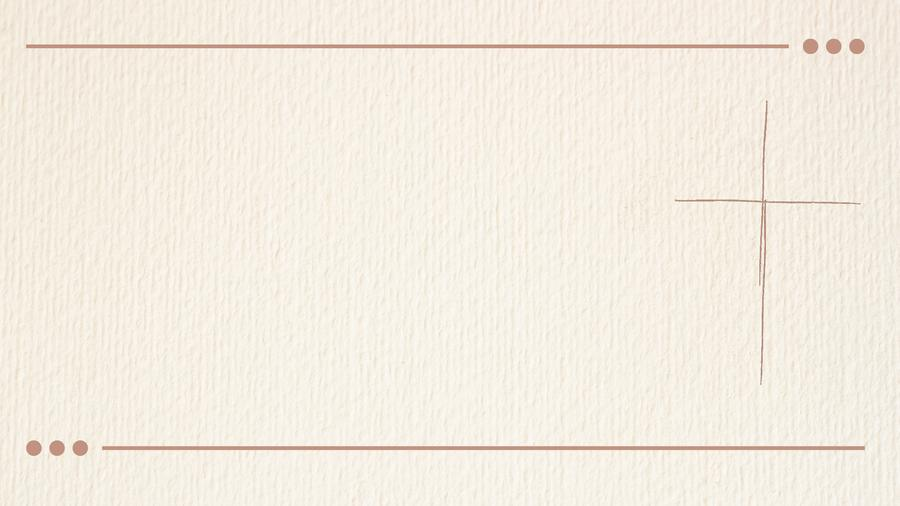
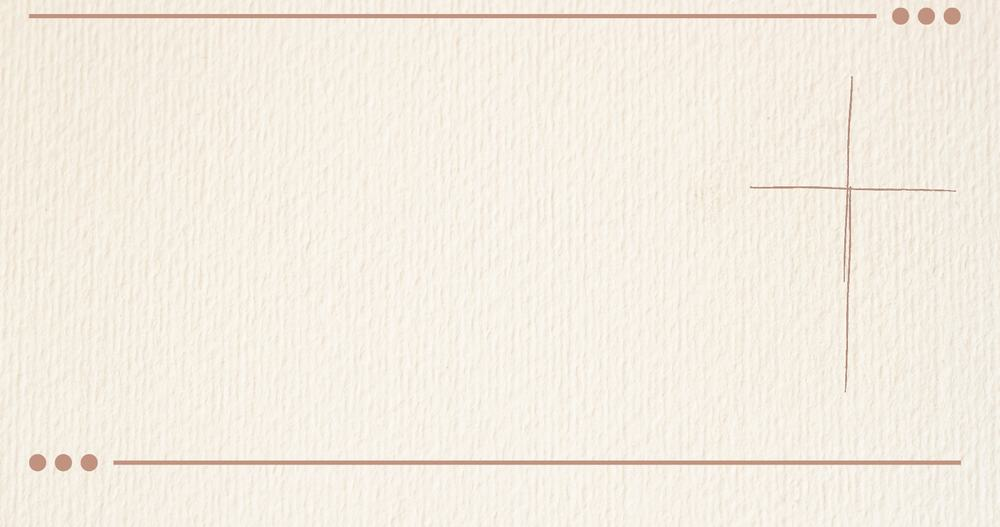
fix(bulletin): raise bottom line, enlarge 성경말씀보기 button
- Recropped the hero background to trim excess top margin, which pulls
  the bottom decorative line higher and roughly doubles the clearance
  below it (23px -> ~32px at typical widths)
- Card aspect ratio adjusted (1.4) to fit the recropped art without
  cropping the lines out — still scales cleanly across phone widths
- Button padding/font bumped up now that there's room, no longer
  cramped against the image edge

Claude-Session: https://claude.ai/code/session_01VDsoJVjkmq7yGfS2oWFvuq

diff --git a/app/bulletin.tsx b/app/bulletin.tsx
@@ -238,7 +238,7 @@ function BulletinCards({ bulletin }: { bulletin: Bulletin }) {
           </View>
           <Pressable style={styles.heroBtn} onPress={() => router.push('/word')}>
             <Text style={styles.heroBtnText}>성경말씀보기</Text>
-            <ChevronRight size={9} color="#FFF6ED" strokeWidth={2.6} />
+            <ChevronRight size={11} color="#FFF6ED" strokeWidth={2.6} />
           </Pressable>
         </View>
       ) : null}
@@ -803,15 +803,16 @@ const styles = StyleSheet.create({
     backgroundColor: '#F3E9DC',
     borderRadius: 16,
     width: '100%',
-    aspectRatio: 900 / 506,
+    aspectRatio: 1.4,
     overflow: 'hidden',
     position: 'relative',
   },
-  // 배경 그림(hero-sunday-bg.jpg)의 실제 장식선 위치를 픽셀 분석해서 맞춘 좌표:
-  // 위쪽 선 9.44%, 아래쪽 선 88.89% (그림 자체 비율 그대로라 잘리지 않는다)
+  // 배경 그림(hero-sunday-bg.jpg)은 위쪽 여백을 잘라내 아래쪽 선을 위로 올린 버전.
+  // 카드 비율(1.4)이 그림 원본 비율(1.9)보다 좁아서, 세로는 잘리지 않고 양옆만
+  // 살짝 잘린다 — 실제 선 위치를 픽셀 분석해 맞춘 좌표: 위쪽 선 2.67%, 아래쪽 선 87.75%
   heroBadge: {
     position: 'absolute',
-    top: '9.44%',
+    top: '2.67%',
     left: '6.5%',
     transform: [{ translateY: 6 }, { translateX: -8 }],
     backgroundColor: 'rgba(255,255,255,0.4)',
@@ -822,10 +823,10 @@ const styles = StyleSheet.create({
   heroBadgeText: { fontFamily: font.bold, fontSize: 10.5, color: '#5A3D2B' },
   heroMid: {
     position: 'absolute',
-    top: '9.44%',
+    top: '46%',
     left: '6.5%',
     right: '34%',
-    transform: [{ translateY: 56 }],
+    transform: [{ translateY: -30 }],
   },
   heroDate: {
     fontFamily: font.bold,
@@ -842,18 +843,18 @@ const styles = StyleSheet.create({
   heroMeta: { fontFamily: font.medium, fontSize: 11, color: '#6B4A35', marginTop: 6 },
   heroBtn: {
     position: 'absolute',
-    top: '88.89%',
+    top: '87.75%',
     right: '3.96%',
-    transform: [{ translateY: 3 }],
+    transform: [{ translateY: 4 }],
     flexDirection: 'row',
     alignItems: 'center',
-    gap: 3,
+    gap: 4,
     backgroundColor: '#6B4A35',
-    borderRadius: 7,
-    paddingVertical: 3,
-    paddingHorizontal: 8,
+    borderRadius: 8,
+    paddingVertical: 5,
+    paddingHorizontal: 11,
   },
-  heroBtnText: { fontFamily: font.bold, fontSize: 9.5, color: '#FFF6ED' },
+  heroBtnText: { fontFamily: font.bold, fontSize: 11, color: '#FFF6ED' },
 
   contentCard: {
     width: '100%',
